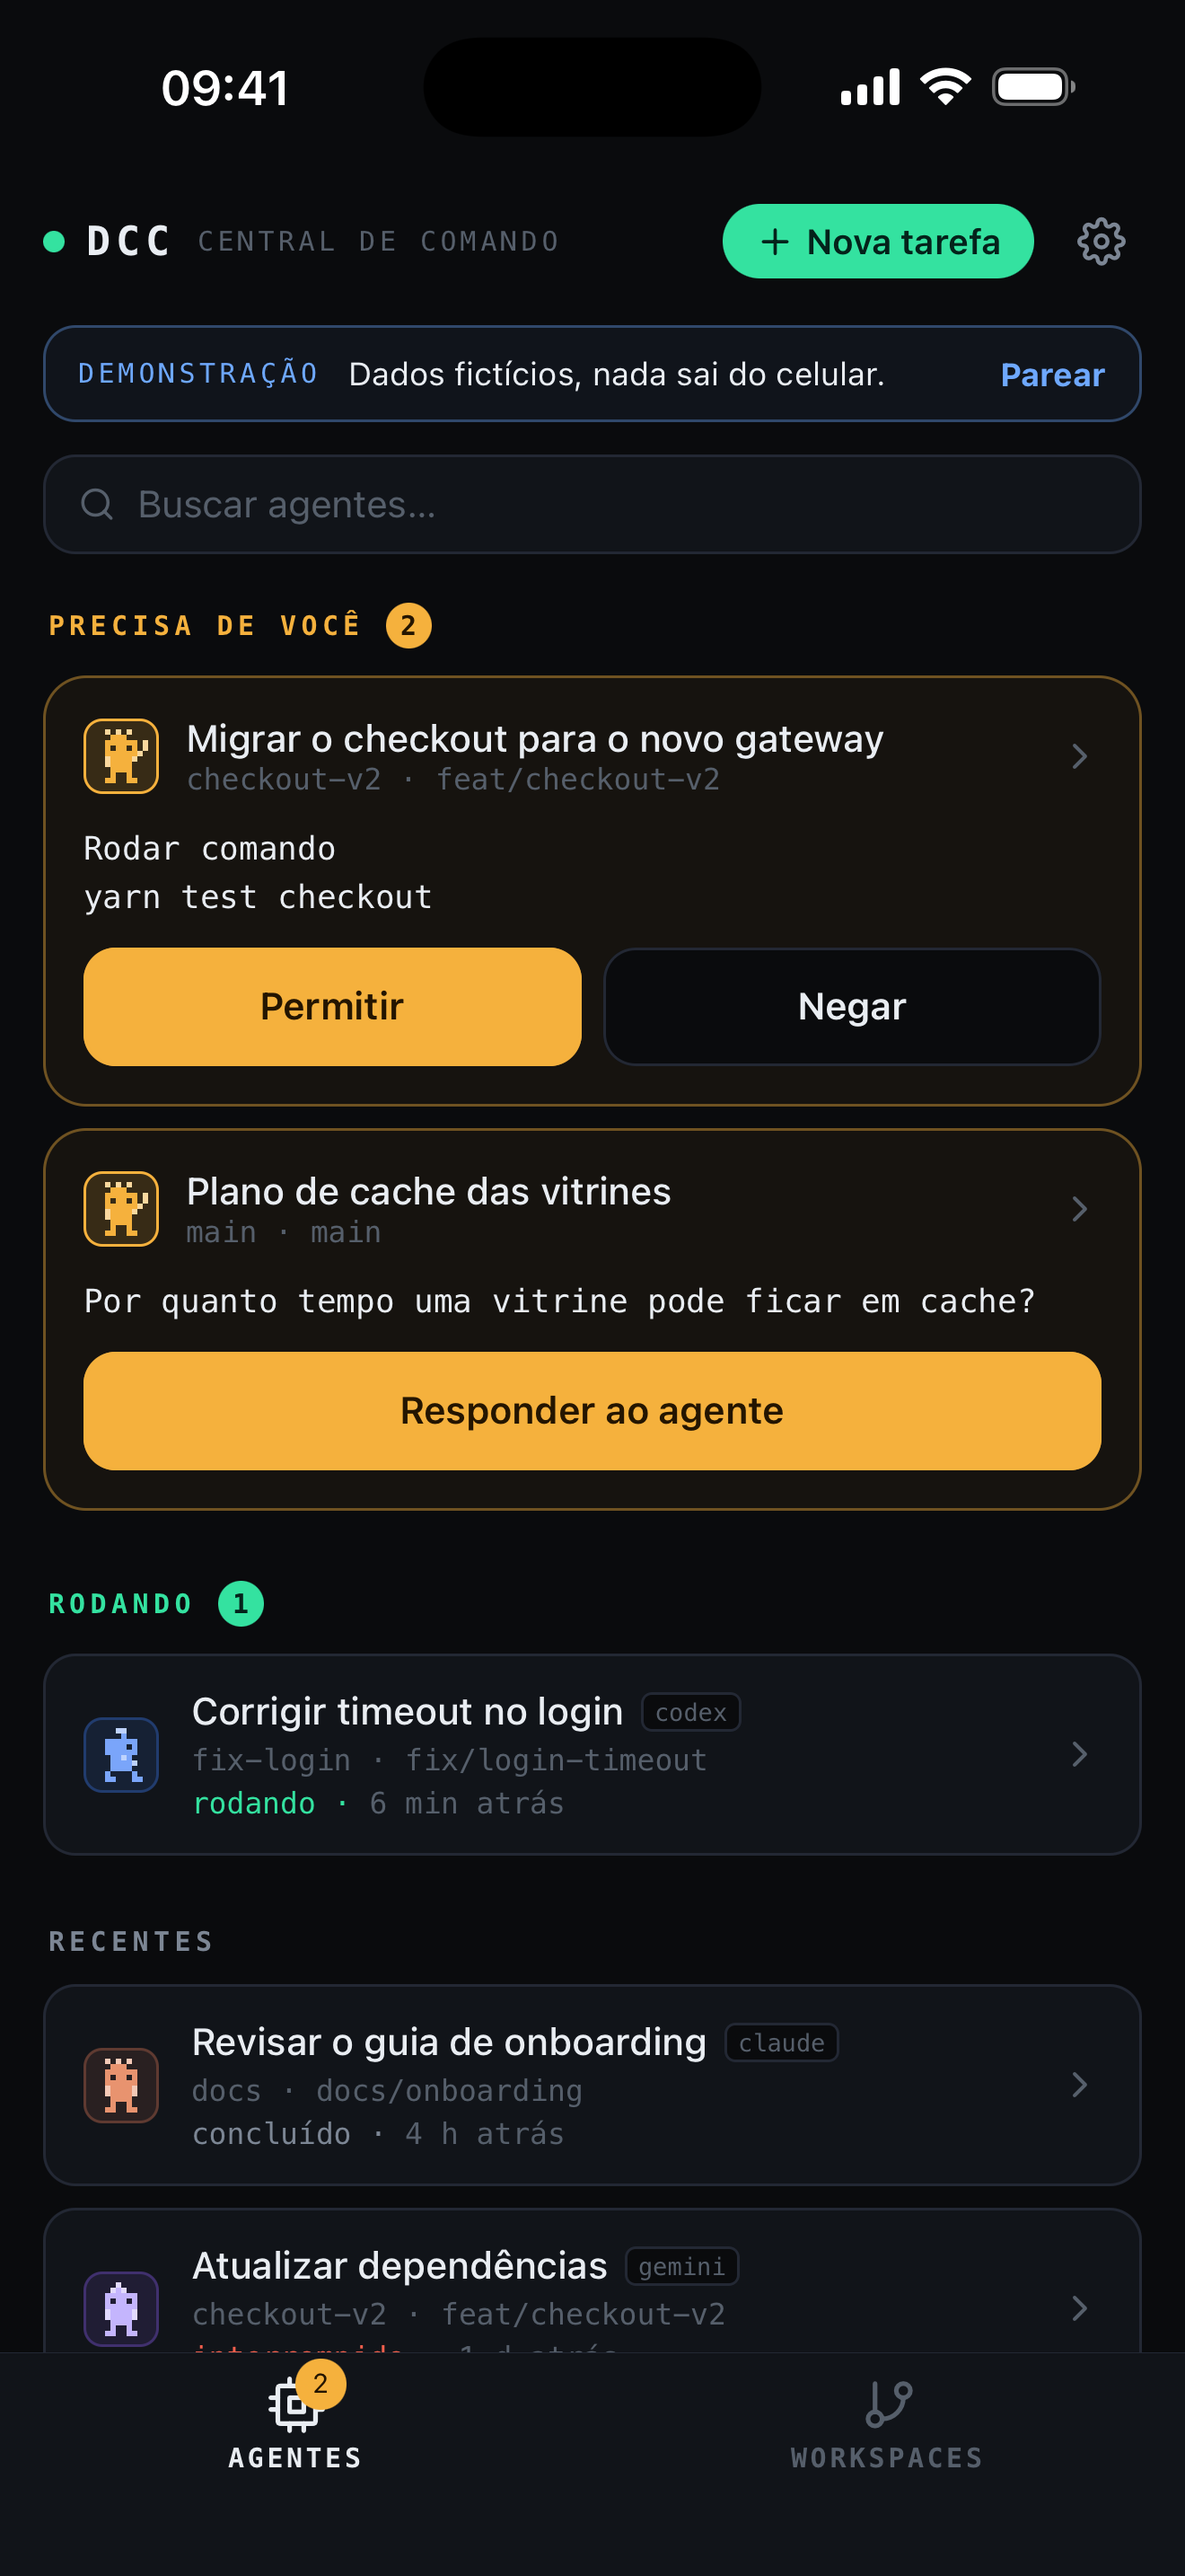
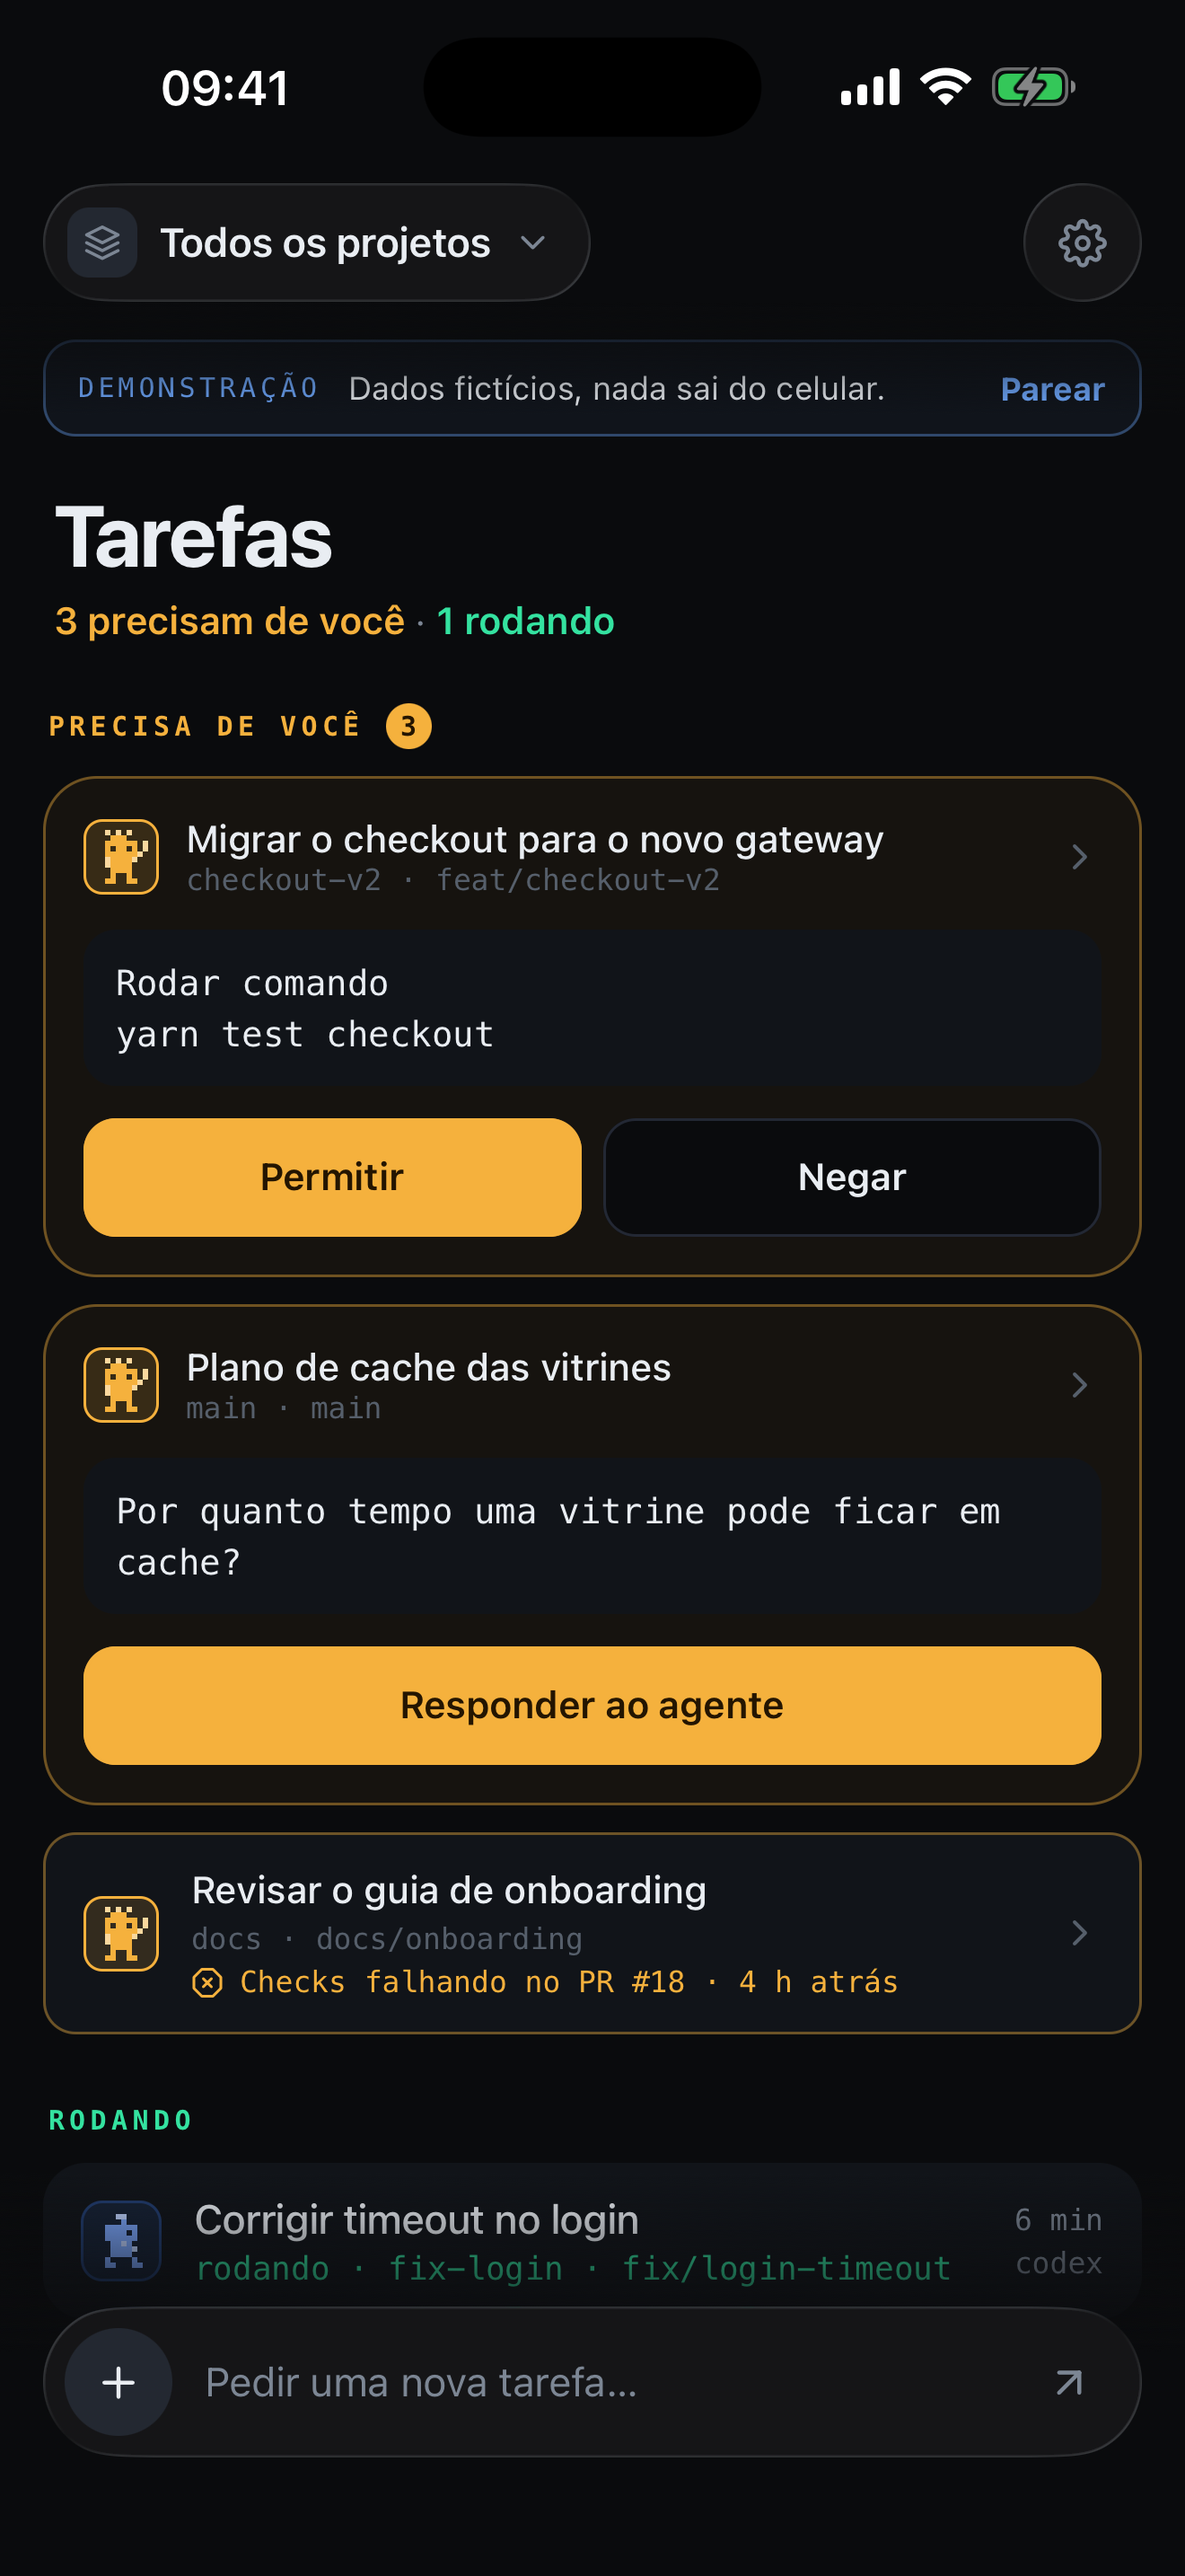
chore(mobile): store screenshots in the new look
Five fresh prints from the demo on the iPhone 17 Pro Max (iOS 26.5,
dark): Tarefas, an approval, Nova tarefa, the project sheet and the
changes sheet with a diff open. The Workspaces and @-mention shots give
way to the project sheet and the diff; captions and README follow.

diff --git a/apps/mobile/store-assets/README.md b/apps/mobile/store-assets/README.md
@@ -1,8 +1,8 @@
 # Materiais de loja
 
 Tudo aqui é PNG sem canal alpha (conferido com `sips -g hasAlpha`). Os prints
-vêm do modo demonstração ("Explorar demonstração"), num build Release no
-iPhone 17 Pro Max (iOS 26.5), com a barra de status fixada em
+vêm do modo demonstração ("Explorar demonstração"), no iPhone 17 Pro Max
+(iOS 26.5), tema escuro, com a barra de status fixada em
 `xcrun simctl status_bar … override` (09:41, bateria e sinal cheios).
 
 ## Google Play (`google-play/`)
@@ -30,11 +30,11 @@ sobre o fundo `#05091c` do ícone); o Android segue com `assets/icon.png`.
 
 | # | Tela | Legenda |
 | --- | --- | --- |
-| 01 | Agentes ("Precisa de você" / "Rodando") | Veja quem **precisa de você** |
+| 01 | Home "Tarefas" ("Precisa de você" / "Rodando") | Veja quem **precisa de você** |
 | 02 | Conversa com pedido de permissão | Aprove com **um toque** |
-| 03 | Nova tarefa (projeto, agente, modelo, acesso) | Delegue de **qualquer lugar** |
-| 04 | Workspaces com os bichos dos projetos | Seus projetos, **à mão** |
-| 05 | Composer com menção `@` a arquivo | Cite arquivos com **@** |
+| 03 | Nova tarefa (bicho do projeto, chips de agente, acesso, worktree) | Delegue de **qualquer lugar** |
+| 04 | Folha de projetos com os bichos e o estado de cada um | Seus projetos, **à mão** |
+| 05 | Mudanças com o diff de um arquivo aberto | Revise o **diff** no bolso |
 
 Recurso gráfico: wordmark DCC, "Seus agentes de IA, no seu bolso."
 
@@ -49,3 +49,6 @@ o WebKit do macOS num PNG opaco do tamanho exato. Para trocar legendas, edite
 ```bash
 PATH="$HOME/.nvm/versions/node/v22.21.1/bin:$PATH" node apps/mobile/store-assets/source/build.mjs
 ```
+
+Os prints crus saem do simulador com alpha; passe-os para RGB antes de salvar
+em `raw/` (por exemplo `Image.open(p).convert("RGB").save(p)` com Pillow).
